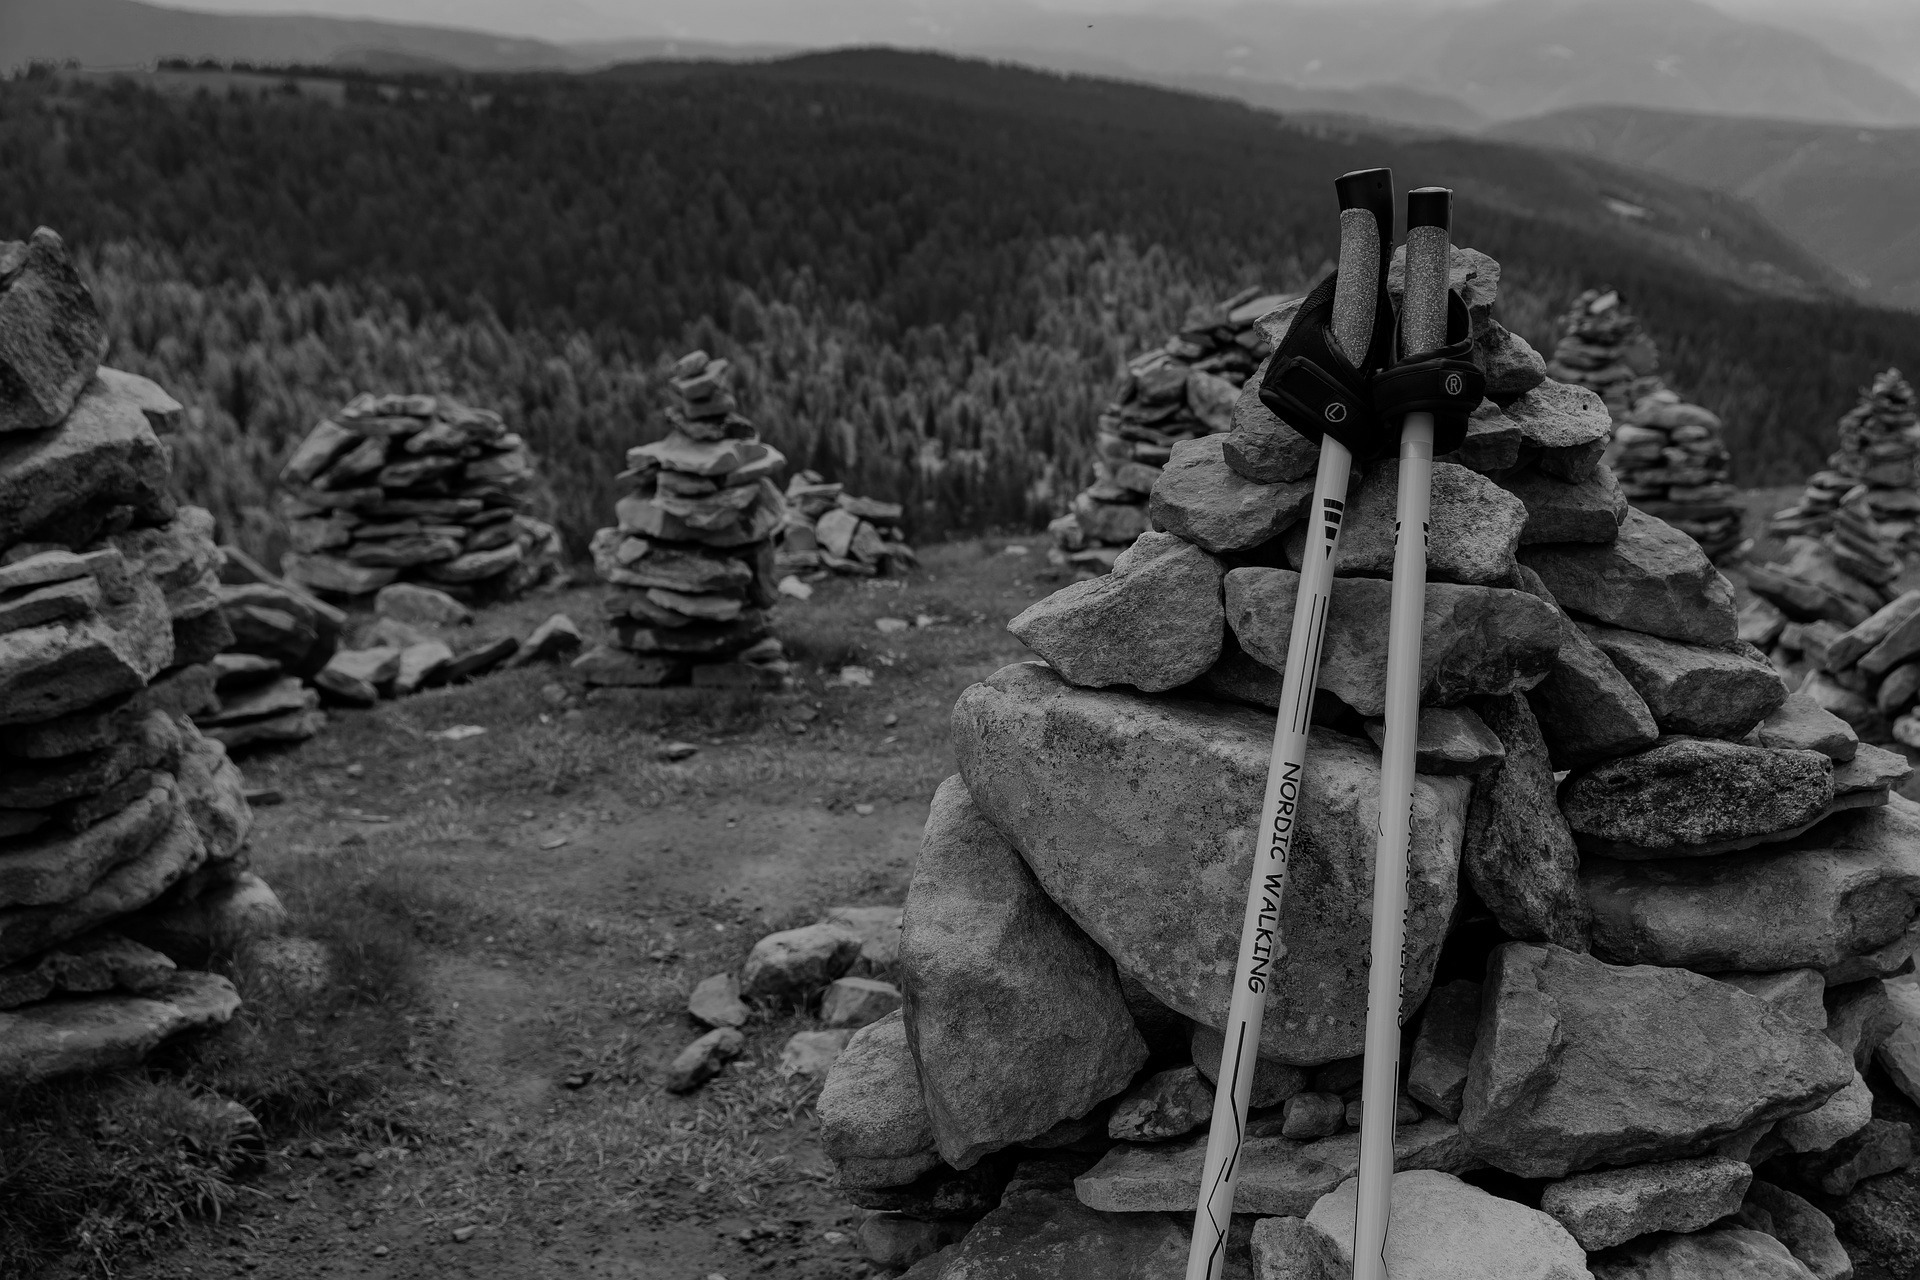
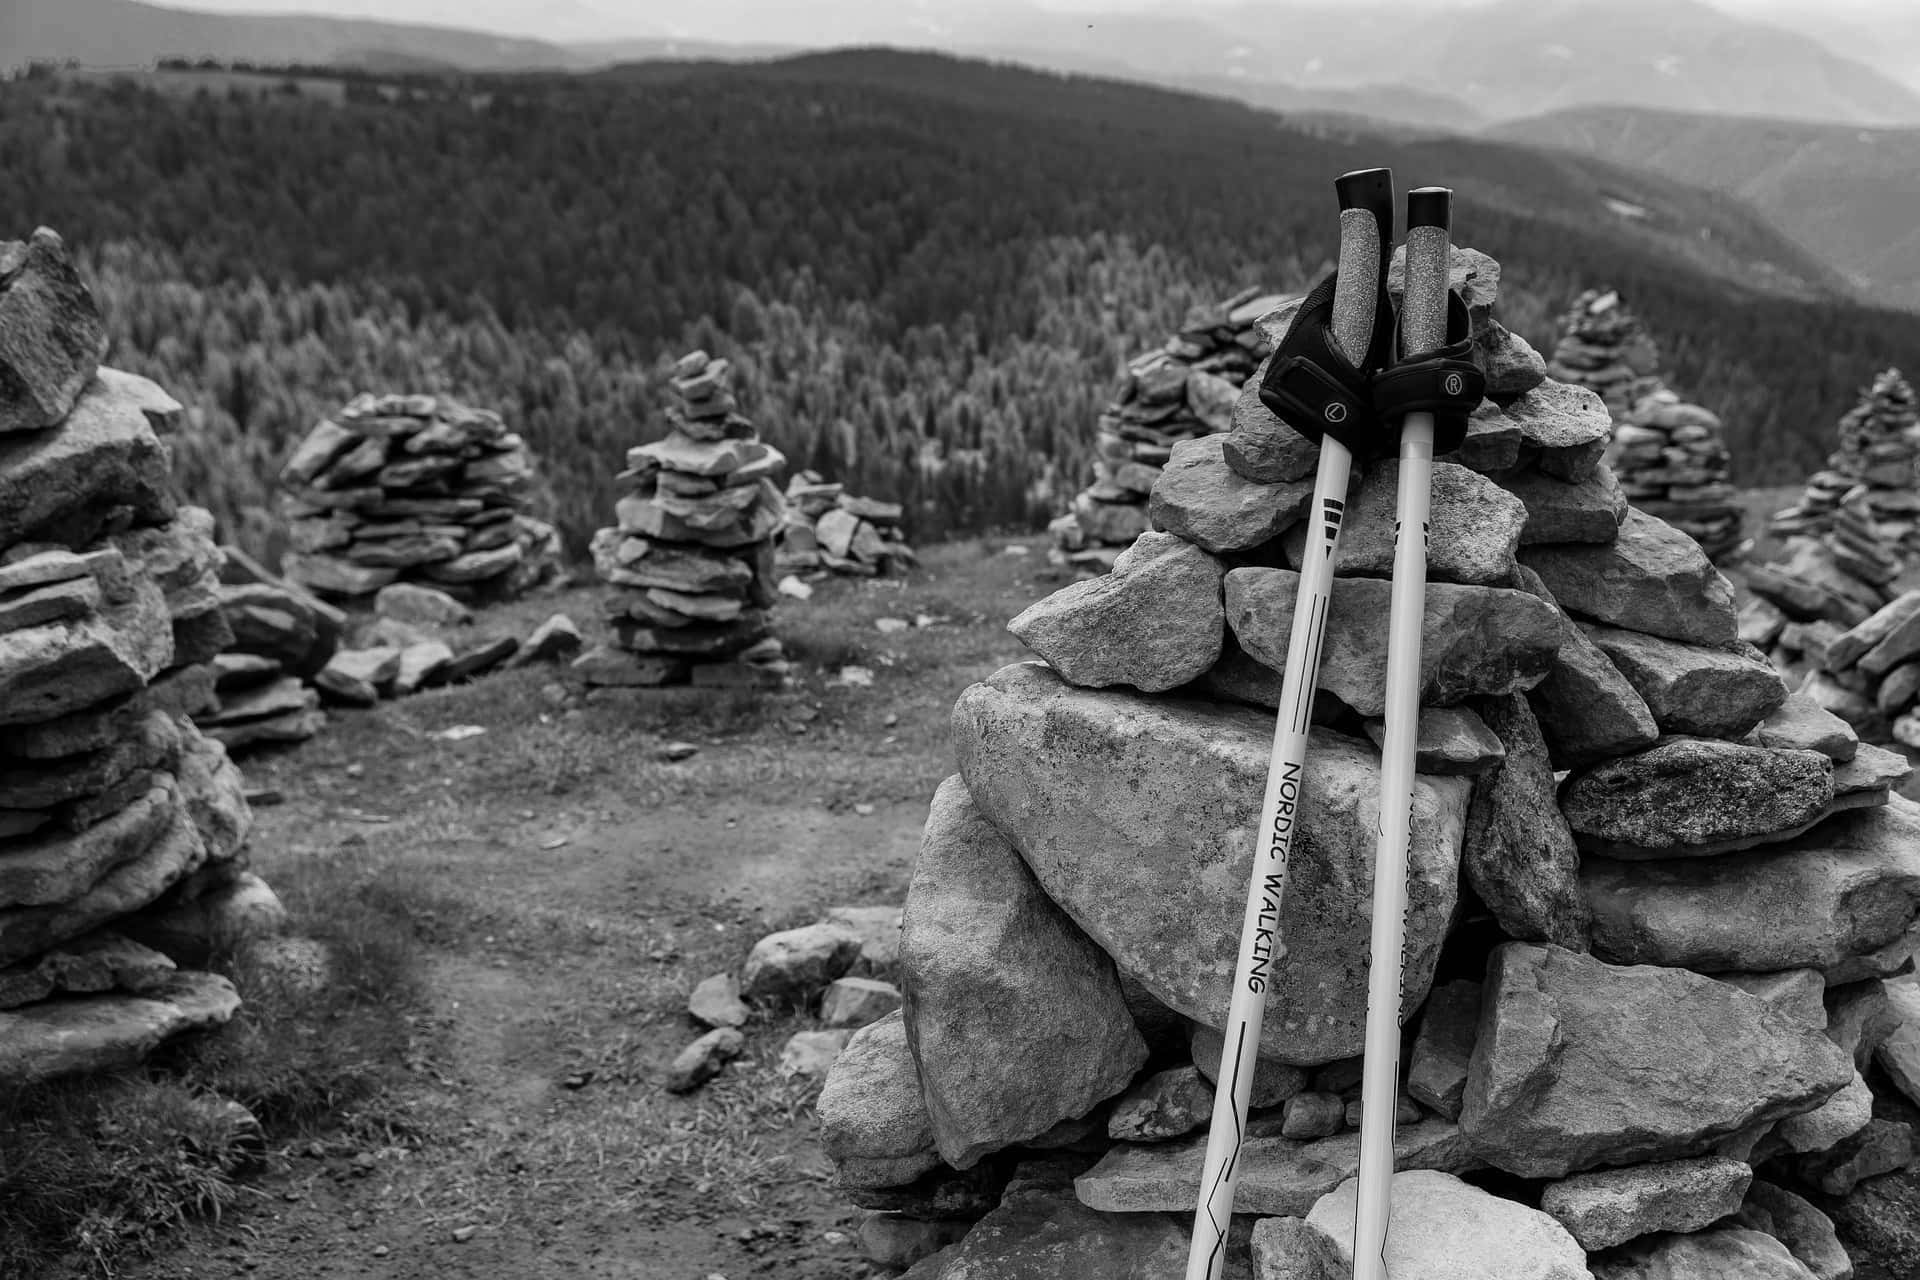
fix erreur

diff --git a/src/DataFixtures/WalkingFixtures.php b/src/DataFixtures/WalkingFixtures.php
@@ -14,7 +14,7 @@ class WalkingFixtures extends Fixture
         $faker = Faker\Factory::create('fr_FR');
         for ($i = 0; $i <= 4; $i++) {
             $walking = new Walking();
-            $walking->setPicture($faker->imageUrl(400, 250, 'sports'));
+            $walking->setPicture($faker->imageUrl(630, 420, 'sports'));
             $walking->setDescription($faker->text);
             $manager->persist($walking);
         }
